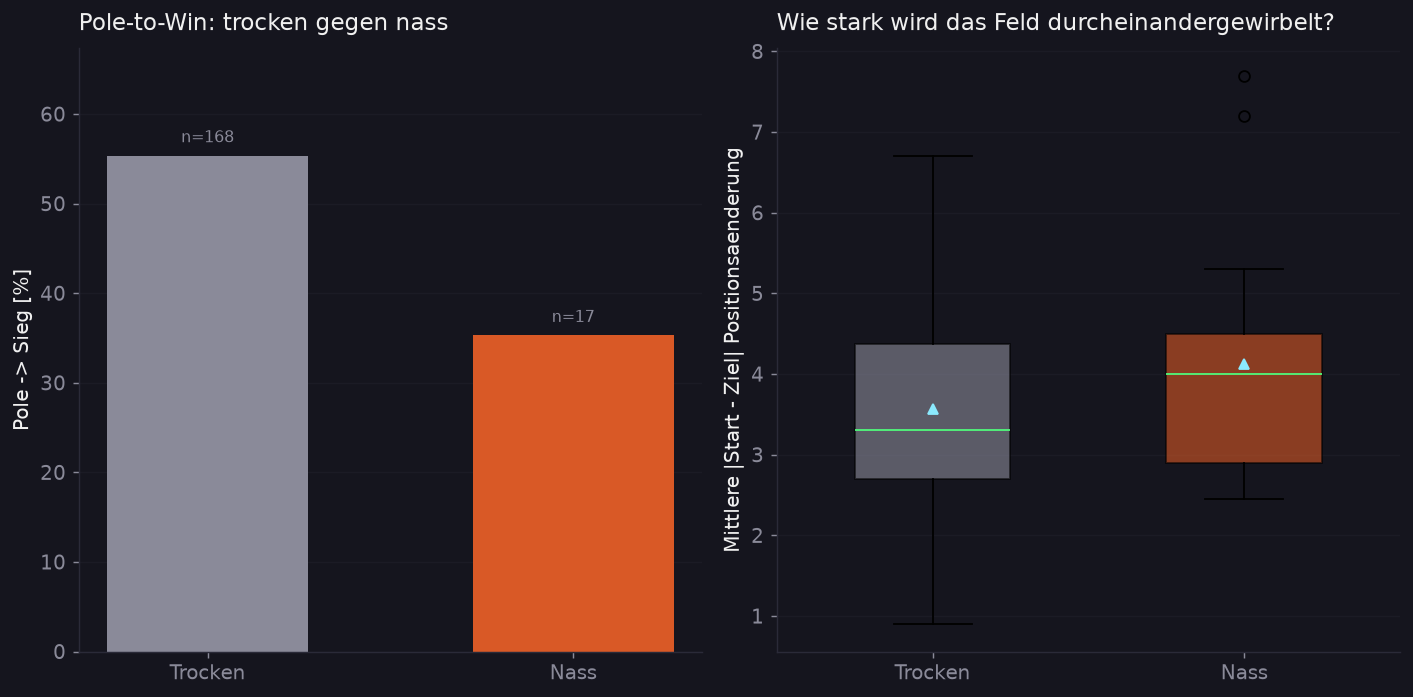
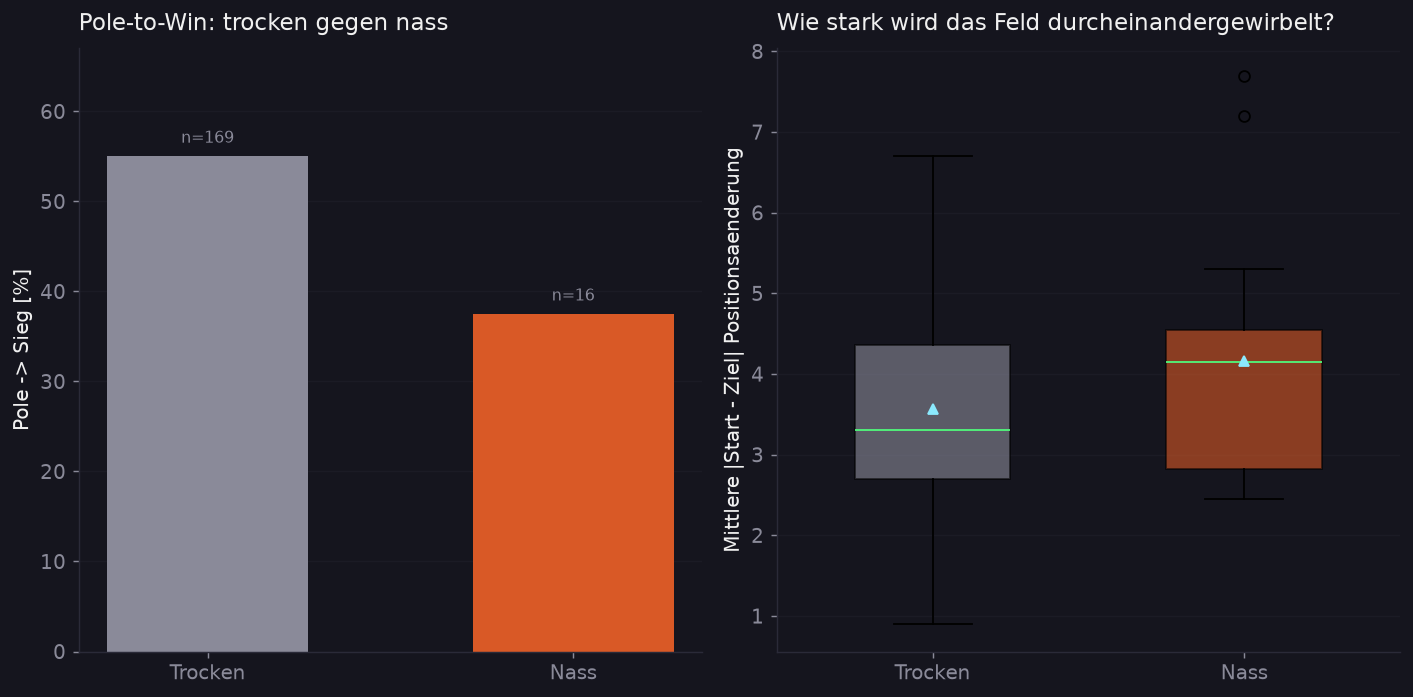
README-Zahlen nachgemessen: zwei waren verrutscht
make_assets.py neu laufen lassen und Block fuer Block verglichen. Zwei
Abweichungen:

Konstrukteurs-WM haengt an der laufenden Saison 2026 und veraltet von
selbst - Mercedes steht bei 468 statt 425 Punkten.

Regen-Variance ist der interessantere Fall: gleiche 185 Rennen, aber 16
statt 17 nass. Genau eins ist unter die 20-Prozent-Schwelle gerutscht.
Die Wetter-Pickles der Grenzfaelle wurden am 27.08. neu geschrieben, also
nach dem Lauf, aus dem die README-Zahlen stammen - der erste P48-Lauf war
ins FastF1-Rate-Limit gefallen und hatte unvollstaendige Wetterreihen
gecacht. Heute sind alle vollstaendig (ein Messpunkt je Minute ueber die
ganze Session). Welches Rennen es war, laesst sich nicht mehr sagen, die
alten Pickles sind ueberschrieben.

Die Aussage haelt: Richtung in beiden Kennzahlen unveraendert, beide
weiterhin nicht signifikant (Fisher jetzt p=0,20 statt 0,13).

Dass beides still verrutschen konnte, ist der eigentliche Fund -
test_readme.py deckte nur 3 von 23 Kennzahlen-Bloecken ab und blieb bei
falschen wie bei richtigen Zahlen gruen. Die beiden gedrifteten sind
jetzt drin, mit einem Helfer fuer deutsche Zahlschreibweise: die Datei
haelt 55.0, der Text schreibt "55,0 %", 3.3 steht als "3,30" und 100.0
als "100".

diff --git a/tests/test_readme.py b/tests/test_readme.py
@@ -63,6 +63,44 @@ class TestZahlenStimmenMitDenKennzahlen:
         return re.search(rf"(?<![\d.,]){re.escape(str(wert))}(?![\d])",
                          text) is not None
 
+    @classmethod
+    def _kommt_vor_de(cls, text: str, wert: float) -> bool:
+        """wie _kommt_vor, aber fuer deutsche Zahlschreibweise im Fliesstext.
+
+        kennzahlen.json haelt 55.0, das README schreibt "55,0 %"; 3.3 steht
+        dort als "3,30", und ein glatter Wert wie 100.0 als "100". Geprueft
+        wird deshalb gegen mehrere zulaessige Schreibweisen statt gegen eine.
+        """
+        formen = {f"{wert:.1f}".replace(".", ","),
+                  f"{wert:.2f}".replace(".", ",")}
+        if float(wert).is_integer():
+            formen.add(str(int(wert)))
+        return any(cls._kommt_vor(text, f) for f in formen)
+
+    def test_regen_variance_zahlen(self, text, kennzahlen):
+        """P48 ist ein Nullbefund - er lebt davon, dass Quoten UND
+        p-Werte stimmen. Beide sind schon einmal still verrutscht, als
+        ein Rennen unter die Nass-Schwelle fiel."""
+        r = kennzahlen["regen_variance"]
+        fehlend = [f"{name}={wert}" for name, wert in (
+            ("rennen", r["rennen"]),
+            ("rennen_nass", r["rennen_nass"]),
+            ("pole_quote_trocken_pct", r["pole_quote_trocken_pct"]),
+            ("pole_quote_nass_pct", r["pole_quote_nass_pct"]),
+            ("durcheinander_median_trocken", r["durcheinander_median_trocken"]),
+            ("durcheinander_median_nass", r["durcheinander_median_nass"]),
+        ) if not self._kommt_vor_de(text, wert)]
+        assert not fehlend, f"nicht im README-Text: {fehlend}"
+
+    def test_konstrukteurs_wm_zahlen(self, text, kennzahlen):
+        """haengt an der laufenden Saison und veraltet damit von selbst,
+        sobald ein Rennen mehr gefahren ist."""
+        k = kennzahlen["konstrukteurs_wm"]
+        fehlend = [f"{e['team']}={e['punkte']}" for e in k["standings_top3"]
+                   if not self._kommt_vor_de(text, e["punkte"])]
+        assert not fehlend, f"Punktestaende nicht im README: {fehlend}"
+        assert self._kommt_vor_de(text, k["titelchance_pct"])
+
     def test_race_pace_zahlen(self, text, kennzahlen):
         rp = kennzahlen["racepace"]
         fehlend = [f"{name}={wert}" for name, wert in (

diff --git a/README.md b/README.md
@@ -372,10 +372,9 @@ Teamebene: pro verbleibendem Event werden zwei unabhängige Positionen je
 Konstrukteur gezogen, nicht eine — ein Team bringt zwei Autos an den Start,
 beide Punkte zählen. Läuft auf der echten, laufenden Saison.
 
-Aktueller Stand: **Mercedes führt mit 425 Punkten** vor Ferrari (338) und
-McLaren (263) — die Simulation der Restsaison gibt Mercedes eine
-**Titelchance von 99,8 %**, für Ferrari bleiben 0,2 %, der Rest praktisch
-nichts.
+Aktueller Stand: **Mercedes führt mit 468 Punkten** vor Ferrari (346) und
+McLaren (287) — die Simulation der Restsaison gibt Mercedes eine
+**Titelchance von 100 %**, der Rest praktisch nichts.
 
 *Code: [`08_historie/p45_konstrukteurs_wm_simulator_wer_gewinnt_das_team.py`](08_historie/p45_konstrukteurs_wm_simulator_wer_gewinnt_das_team.py)*
 
@@ -428,13 +427,13 @@ Garantie.
 ![Regen-Variance 2018-2026](assets/regen_variance.png)
 
 Gewinnt der Fahrer auf Startplatz 1 im Regen seltener, und wird das Feld
-stärker durcheinandergewirbelt? Über 185 Rennen (2018–2026, 17 davon nass)
+stärker durcheinandergewirbelt? Über 185 Rennen (2018–2026, 16 davon nass)
 zeigen beide Kennzahlen genau die erwartete Richtung: Pole-to-Win fällt von
-**55,4 % im Trockenen auf 35,3 % im Regen**, die mittlere Positionsänderung
-Start-zu-Ziel steigt von 3,30 auf 4,00 Plätze.
+**55,0 % im Trockenen auf 37,5 % im Regen**, die mittlere Positionsänderung
+Start-zu-Ziel steigt von 3,30 auf 4,15 Plätze.
 
-Die ehrliche Einschränkung: bei nur 17 nassen Rennen sind beide Effekte
-**nicht statistisch signifikant** (Fisher-Exact-Test p = 0,13, Mann-Whitney-U
+Die ehrliche Einschränkung: bei nur 16 nassen Rennen sind beide Effekte
+**nicht statistisch signifikant** (Fisher-Exact-Test p = 0,20, Mann-Whitney-U
 p = 0,11). Ein echter Effekt in dieser Richtung ist plausibel — beweisen
 lässt er sich mit den verfügbaren Daten nicht. Genau dieser Unterschied
 zwischen "sieht danach aus" und "ist statistisch abgesichert" steckt oft
